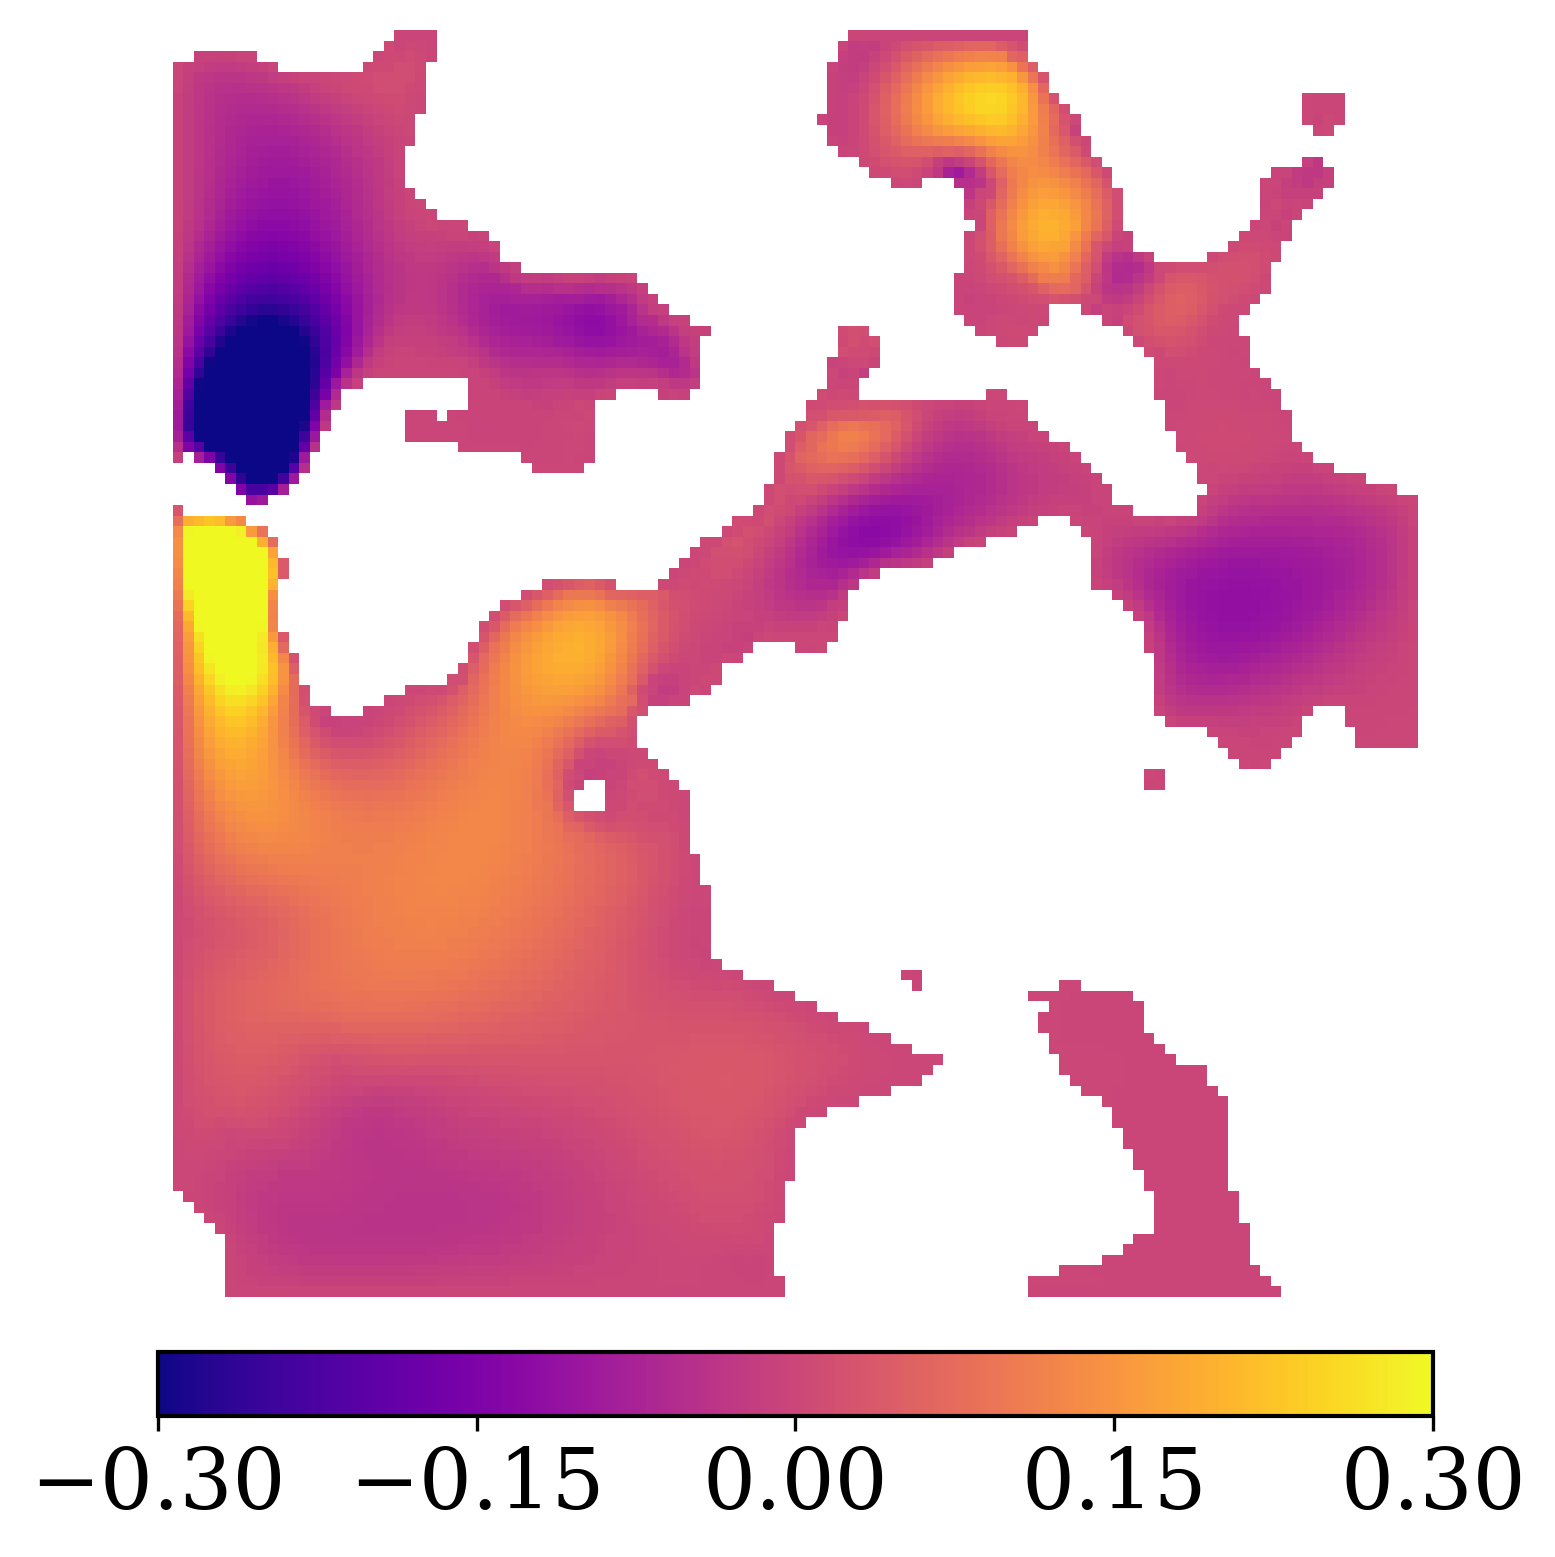
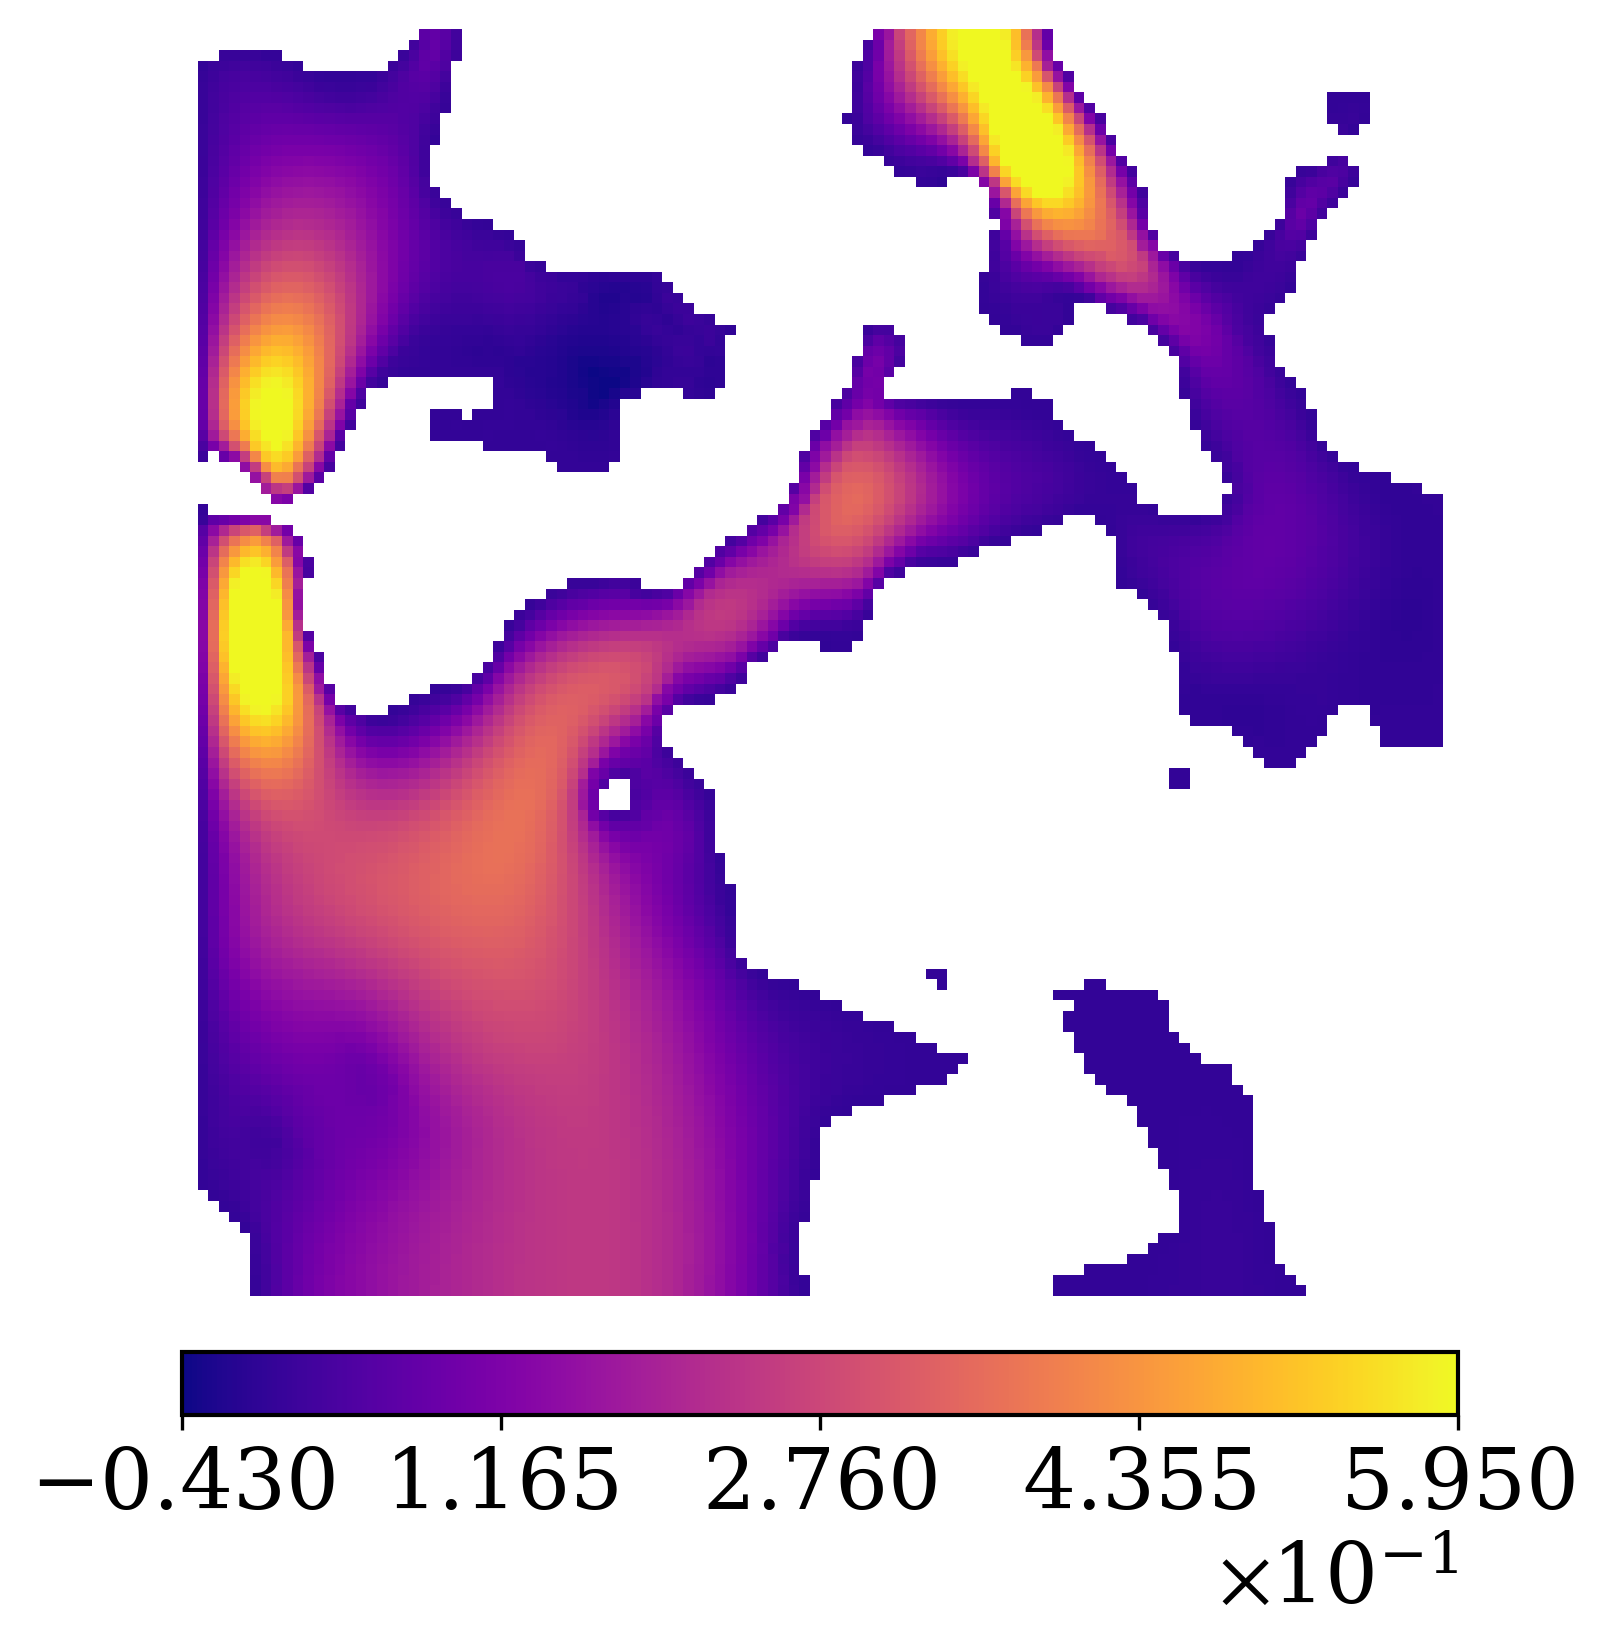
follow up plot colorbar

diff --git a/main_TestModel_Qualit_subModel.py b/main_TestModel_Qualit_subModel.py
@@ -5,6 +5,7 @@ import tensorflow         as tf
 from scipy.stats          import gaussian_kde
 from matplotlib.ticker    import LogLocator, LogFormatterSciNotation
 from torch.utils.data     import DataLoader
+from matplotlib.ticker    import ScalarFormatter
 
 from Architectures.Unet   import Extended_DannyKo
 from Architectures.MSnet  import Extended_JavierSantos
@@ -43,7 +44,25 @@ def get_masked_slices(inp, tar, slice_idx, axis='front'):
     mask = (i_slc == 0)
     return np.ma.array(t_slc, mask=mask)
 
+def apply_scientific_colorbar(cbar, orientation='horizontal'):
+    """Force scientific notation on colorbar ticks."""
 
+    formatter = ScalarFormatter(useMathText=True)
+    formatter.set_scientific(True)
+    formatter.set_powerlimits((0, 0))
+
+    # Set formatter through the Colorbar object itself
+    cbar.formatter = formatter
+
+    # Update ticks after assigning the formatter
+    cbar.update_ticks()
+
+    # Ensure scientific notation offset is visible
+    if orientation == 'horizontal':
+        cbar.ax.xaxis.get_offset_text().set_visible(True)
+    else:
+        cbar.ax.yaxis.get_offset_text().set_visible(True)
+  
 #######################################################
 #************ COMPARISONS:                 ***********#
 ####################################################### 
@@ -129,8 +148,9 @@ def Plot_Side_Comparison(models, datapath, component, sample_idx=0, slice_idx=60
     tar_z_masked    = get_masked_slices(inp.squeeze(0).squeeze(0), tar_z, slice_idx, axis='side') # Put zeros on solid
     
     # Prepare color range
-    vmin, vmax      = round(tar_z_masked.mean()-tar_z_masked.std()*3,1), round(tar_z_masked.mean()+tar_z_masked.std()*3,1)
-    
+    vmin, vmax      = tar_z_masked.mean()-tar_z_masked.std()*3, tar_z_masked.mean()+tar_z_masked.std()*3
+    vmin, vmax      = max(vmin, tar_z_masked.min()), min(vmax, tar_z_masked.max())
+    vmin, vmax      = round(vmin,3), round(vmax,3)
     folder = "./Plots/Plot_Side_Comparison"
     if save_mode and not os.path.exists(folder): os.makedirs(folder)
 
@@ -141,6 +161,7 @@ def Plot_Side_Comparison(models, datapath, component, sample_idx=0, slice_idx=60
         plt.axis('off')
         cbar_t = plt.colorbar(im_t, orientation='horizontal', fraction=0.046, pad=0.04)
         cbar_t.set_ticks(np.linspace(vmin, vmax, 5))
+        apply_scientific_colorbar(cbar_t)
         plt.savefig(f"{folder}/{save_tag}_{sample_idx}_Target.png", dpi=300, bbox_inches='tight')
         plt.close()
     else:
@@ -152,6 +173,7 @@ def Plot_Side_Comparison(models, datapath, component, sample_idx=0, slice_idx=60
         axes[0].set_title("Target (Side)")
         cbar0 = plt.colorbar(im0, ax=axes[0], orientation='horizontal', fraction=0.046, pad=0.04)
         cbar0.set_ticks(np.linspace(vmin, vmax, 5))
+        apply_scientific_colorbar(cbar0)
 
     for i, (name, model) in enumerate(models.items(), 1):
         with torch.no_grad():
@@ -159,13 +181,17 @@ def Plot_Side_Comparison(models, datapath, component, sample_idx=0, slice_idx=60
         
         out_z       = out.squeeze(0)[0]    
         o_z_masked  = get_masked_slices(inp.squeeze(0).squeeze(0), out_z, slice_idx, axis='side') # Put zeros on solid
-        vmin, vmax      = round(o_z_masked.mean()-o_z_masked.std()*3,1), round(o_z_masked.mean()+o_z_masked.std()*3,1)
+        vmin, vmax  = o_z_masked.mean()-o_z_masked.std()*3, o_z_masked.mean()+o_z_masked.std()*3
+        vmin, vmax      = max(vmin, o_z_masked.min()), min(vmax, o_z_masked.max())
+        vmin, vmax      = round(vmin,3), round(vmax,3)
+        
         if save_mode:
             plt.figure(figsize=(6, 6))
             im_m = plt.imshow(o_z_masked, cmap='plasma', vmin=vmin, vmax=vmax)
             plt.axis('off')
             cbar_m = plt.colorbar(im_m, orientation='horizontal', fraction=0.046, pad=0.04)
             cbar_m.set_ticks(np.linspace(vmin, vmax, 5))
+            apply_scientific_colorbar(cbar_m)
             plt.savefig(f"{folder}/{save_tag}_{sample_idx}_{name.replace(' ', '_')}.png", dpi=300, bbox_inches='tight')
             plt.close()
         else:
@@ -174,6 +200,7 @@ def Plot_Side_Comparison(models, datapath, component, sample_idx=0, slice_idx=60
             axes[i].axis('off')
             cbar = plt.colorbar(im, ax=axes[i], orientation='horizontal', fraction=0.046, pad=0.04)
             cbar.set_ticks(np.linspace(vmin, vmax, 5))
+            apply_scientific_colorbar(cbar)
             
     if not save_mode: plt.show()
 
@@ -269,7 +296,7 @@ shape               = (120,120,120)
 #    }
 #shape               = (256,256,256)
 
-component           = 2 # Uz=0, Uy=1, Ux=2, P=3
+component           = 0 # Uz=0, Uy=1, Ux=2, P=3
 
 
 # DEFINE MODELS
@@ -277,6 +304,8 @@ models_dict          = {}
 
 # Z-Component models
 if component==0:
+    #==========================================================================
+    """
     danny_model_base3 = Extended_DannyKo()
     model_z_3 = danny_model_base3.z_model
     model_z_3.load_state_dict(torch.load("./Trained_Models/NN_Trainning_9_September_2026_02-04PM_Job28308/model_LowerValidationLoss.pth", map_location=torch.device(device), weights_only=True))
@@ -304,6 +333,25 @@ if component==0:
     model_z_3.bin_input = True
     model_z_3.eval()
     models_dict["Ko et al (D3 N4)"] = model_z_3
+    """
+    #==========================================================================
+    
+    
+    #==========================================================================
+    # Increasing Diversity - Javier Santos
+
+    javier_model_base3 = Extended_JavierSantos()
+    model_z_3 = javier_model_base3.z_model
+    model_z_3.load_state_dict(torch.load("./Trained_Models/NN_Trainning_9_September_2026_01-53PM_Job28306/model_LowerValidationLoss.pth", map_location=torch.device(device), weights_only=True))
+    model_z_3.bin_input = False
+    models_dict["Javier Santos (D1 N4)"] = model_z_3
+    
+    javier_model_base3 = Extended_JavierSantos()
+    model_z_3 = javier_model_base3.z_model
+    model_z_3.load_state_dict(torch.load("./Trained_Models/NN_Trainning_10_September_2026_12-33PM_Job28377/model_LowerValidationLoss.pth", map_location=torch.device(device), weights_only=True))
+    model_z_3.bin_input = False
+    models_dict["Javier Santos (D3 N4)"] = model_z_3
+    #==========================================================================
 
 # X-Component models
 elif component==2:

diff --git a/main_TestModel_SpeedUp_Analyze.py b/main_TestModel_SpeedUp_Analyze.py
@@ -65,7 +65,7 @@ dataset_colors  = {}
 
 self_convergence_tail   = 0.25   # Evaluate the last 25% of the simulation steps
 self_convergence_tol    = 10.0   # Must stay within 10% of its OWN final value
-ref_convergence_tol     = 0.2    # Must reach within 2.5% of the GRAD final value
+ref_convergence_tol     = 2.0    # Must reach within 2.5% of the GRAD final value
 
 # ---------------------------------------------------------
 # AUXILIARY FUNCTIONS
